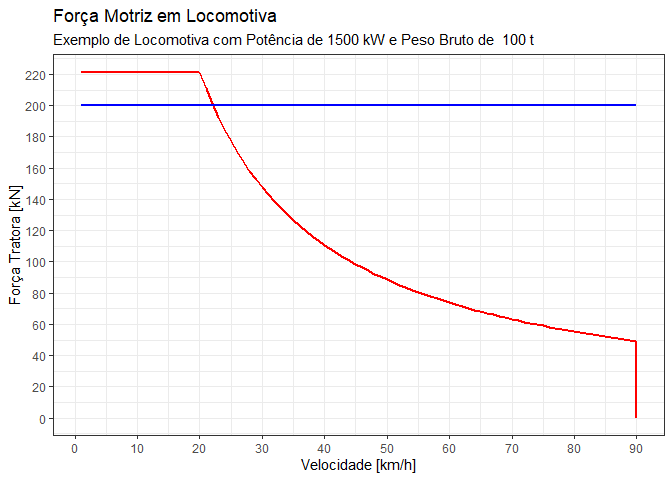
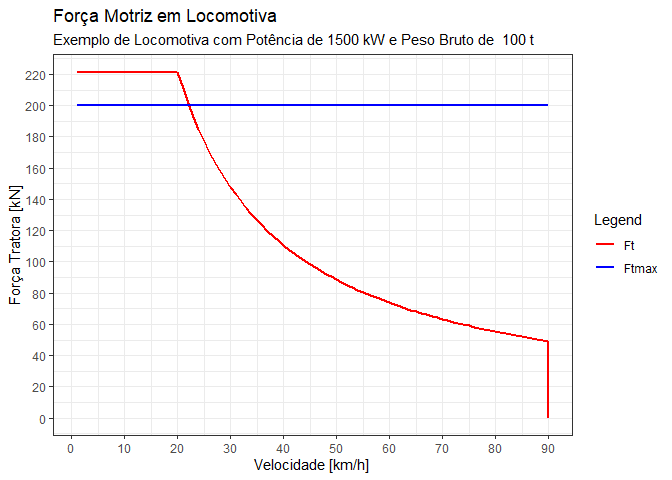
added resistance graph

diff --git a/2025/README.md b/2025/README.md
@@ -132,15 +132,16 @@ df |> ggplot(aes(x=v, y=Ft)) +
 #      ylab='Força Tratora [kN]')
 ```
 
-É importante observar que o gráfico apresenta valores para qualquer
-extremidade, e sabemos que os motores tem limitações, a saber:
+É importante observar que este gráfico apresenta valores tendendo ao
+infinito nas extremidades, e sabemos que os motores tem limitações, a
+saber:
 
 1.  da corrente elétrica (máxima força tratora disponível) no eixo Y,  
 2.  da voltagem ou rotação do motor (máxima velocidade disponível) no
     eixo X.
 
 Dessa forma, a função anterior fica limita a esses dois limites. Como
-exemplo, considere a velociade máxima de 90 km/h e a força tratora
+exemplo, considere a velocidade máxima de 90 km/h e a força tratora
 máxima pela corrente elétrica, limitada pela **Velocidade Mínima de
 Operação Constante** (VMOC) de 20 km/h.
 
@@ -185,11 +186,11 @@ df |> ggplot(aes(x=v, y=Ft)) +
 
 ### Tração por aderência
 
-Para que a locomotiva não patine, a **Força Tratora** nas rodas deve ser
-menor que a **Força de aderência** entre o trilho e as rodas:
-$F_{t} \leq F_{a}$.
+Para que as rodas da locomotiva não patine, a **Força Tratora** que o
+motor despeja nas rodas deve ser menor que a **Força de aderência**
+entre o trilho e as rodas: $F_{t} \leq F_{a}$.
 
-Portanto a **Força Motriz Máxima** está limitada a aderência na
+Portanto a **Força Motriz Máxima** está limitada pela **aderência** da
 interface roda-trilho:
 
 $$
@@ -214,8 +215,12 @@ aderência* $f$ para várias condições do trilho.
 | Úmido e sujo           |            0,11 |
 | Sujo de óleo           |            0,10 |
 
-Como exemplo, considere uma locomotiva com Peso Bruto Total de 100
-toneladas e um fator de aderência $f$ de 0,20, portanto:
+------------------------------------------------------------------------
+
+**EXEMPLO: Força Tratora**
+
+Considere uma locomotiva com Peso Bruto Total de 100 toneladas e um
+fator de aderência $f$ de 0,20, portanto:
 
 ``` r
 # Potência em kW
@@ -256,22 +261,26 @@ df <- data.frame(v = v,
                  Ftmax = Ftmax)
 
 ## Plotar
+colors <- c("Ft" = "red", "Ftmax" = "blue")
 df |> ggplot(aes(x=v)) +
-  geom_line(aes(y=Ft),color='red', linewidth=1) +
-  geom_line(aes(y=Ftmax), color='blue', linewidth=1)+
+  geom_line(aes(y=Ft, color='Ft'), linewidth=1) +
+  geom_line(aes(y=Ftmax, color='Ftmax'), linewidth=1)+
   scale_x_continuous(breaks=seq(0,vmax,10)) +
   scale_y_continuous(breaks=seq(0,round(Ftce/5,0)*5,20)) +
-  xlab("Velocidade [km/h]") +
-  ylab("Força Tratora [kN]") +
-  labs(title = "Força Motriz em Locomotiva",
-       subtitle = paste("Exemplo de Locomotiva com Potência de",P,"kW e Peso Bruto de ",M, "t")) +
-  theme_bw()+
-  theme(legend.position = "bottom")
+  labs( title = "Força Motriz em Locomotiva",
+        subtitle = paste("Exemplo de Locomotiva com Potência de",P,"kW e Peso Bruto de ",M, "t"),
+        x = "Velocidade [km/h]",
+        y = "Força Tratora [kN]",
+        color="Legend" ) +
+  theme_bw() +
+  scale_color_manual(values = colors)
 ```
 
 ![](README_files/figure-commonmark/unnamed-chunk-4-1.png)
 
 > [**ATIVIDADE 1**](_atividades/ATV01.pdf)
+
+------------------------------------------------------------------------
 
 ## 2. Resistências ao Movimento
 
@@ -290,8 +299,8 @@ Sendo,
 - $R_c$ : resistência de curva \[kN\]
 
 Dentre todas essas resistências, as resistências **ao rolamento e
-aerodinâmica** sempre existirão, portanto é denominado de ***Resistência
-Básica ou Inerente***.
+aerodinâmica** sempre existe, portanto é denominado de ***Resistência
+Básica*** ou ***Resistência Inerente***.
 
 ### Resistência ao Rolamento
 
@@ -353,6 +362,104 @@ Sendo,
 - $R_c$ : resistência de curva \[kN\]  
 - $G$ : peso do veículo (locomotiva ou vagão) \[kN\]  
 - $r$ : raio de curva \[m\]
+
+------------------------------------------------------------------------
+
+**EXEMPLO: Resistências**
+
+Considere uma locomotiva descrita anteriormente, área frontal de 10 m² e
+6 eixos, rebocando 10 vagões com massa de 80 toneladas, área frontal de
+8 m² e 4 eixos cada. Considere o trecho plano e um aclive de 1,0%, sem
+curva. Utilizando as equações e parâmetros anteriores teremos:
+
+``` r
+## CONSTANTES
+# Gravidade
+g = 10 #m/s²
+
+## LOCOMOTIVA:
+# Número de locomotivas
+nL = 1
+# Número de eixos da locomotiva
+xL = 6
+# Área frontal da locomotiva
+AL = 9.0 #m²
+# Potência em kW
+P = 1500
+# Eficiência
+eta = 0.82
+# Limite da voltagem/rotação do motor
+vmax = 90 #km/h
+# Limite da corrente elétrica - VMOC
+VMOC = 20 #km/h
+# Força Tratora Máxima da Corrente Elétrica
+Ftce = eta * 3.6 * (P / VMOC) #kN
+# Massa da Locomotiva [t]
+mL = 100 #t
+# Peso Bruto em [kN]
+GL = mL * 10 # g (gravidade) = 10 m/s²
+# Fator de aderência
+f = 0.20
+
+## VAGÕES
+# Número de vagões
+nV = 10
+# Número de eixos do vagão
+xV = 4
+# Área frontal ddo vagão
+AV = 8.0 #m²
+# Massa de cada vagão
+mV = 80 # t
+# Peso Bruto do vagão em [kN]
+GV = mV * g #kN
+
+## DATAFRAME
+df <- data.frame(
+  V     = c(1:vmax,vmax),
+  FtCE  = Ftce
+  ) %>% 
+  rowwise(V) %>% 
+  mutate(
+    FtMotor  = nL * (eta * 3.6 * P / V),
+    Ft       = min(FtCE,FtMotor),
+    Ftmax    = nL * (f * GL),
+    R_Loc    = ((0.65 + (125 * xL) / GL + 0.009 * GL ) * GL / 1000) + (0.046 * AL * V * V)/1000,
+    R_Vag    = ((0.65 + (125 * xV) / GV + 0.013 * GV ) * GV / 1000) + (0.009 * AV * V * V)/1000,
+    Rt_plano = nL * R_Loc + nV * R_Vag,
+    Rt_aclive= Rt_plano + 0.01 * (nL * GL + nV * GV)
+  )
+df$Ft[nrow(df)] = 0.0
+
+## Plotar
+colors <- c("Ft" = "blue", "Ftmax" = "cyan", "Rt_0%" = "orange", "Rt_1%" = "red")
+df |> ggplot(aes(x=V)) +
+  geom_line(aes(y=Ft, color='Ft'), linewidth=1) +
+  geom_line(aes(y=Ftmax, color='Ftmax'), linewidth=1)+
+  geom_line(aes(y=Rt_plano, color='Rt_0%'), linewidth=1)+
+  geom_line(aes(y=Rt_aclive, color='Rt_1%'), linewidth=1)+
+  scale_x_continuous(breaks=seq(0,vmax,10)) +
+  scale_y_continuous(breaks=seq(0,round(max(df$Ft)/5,0)*5,20)) +
+  labs( title = "Força Tratora da Locomotiva vs. Resistências do Trem",
+        subtitle = paste("Exemplo com", nL, "Locomotiva(s) e", nV, "vagões"),
+        x = "Velocidade [km/h]",
+        y = "Força Tratora [kN]",
+        color="Legend" ) +
+  theme_bw() +
+  scale_color_manual(values = colors)
+```
+
+![](README_files/figure-commonmark/unnamed-chunk-5-1.png)
+
+Perceba que no trecho plano, a velocidade de equilíbrio para o trem do
+exemplo (1 locomotiva + 10 vagões) é em torno de 44 km/h. Já no aclive
+de 1,0%, a composição tem velocidade de equilíbrio de 22 km/h. Ambas as
+situações considerando a Potência máxima da locomotiva, portanto
+cruzando com a curva da Froça Tratora ($F_t$). Lembre-se que toda a área
+abaixo da curva de $F_t$ é possível de ser operada.
+
+> [**ATIVIDADE 2**](_atividades/ATV02.pdf)
+
+------------------------------------------------------------------------
 
 [^1]: Hay, W. (1982) *Railroad Engineering*. Wiley & Sons, New York, 2ª
     edição.
